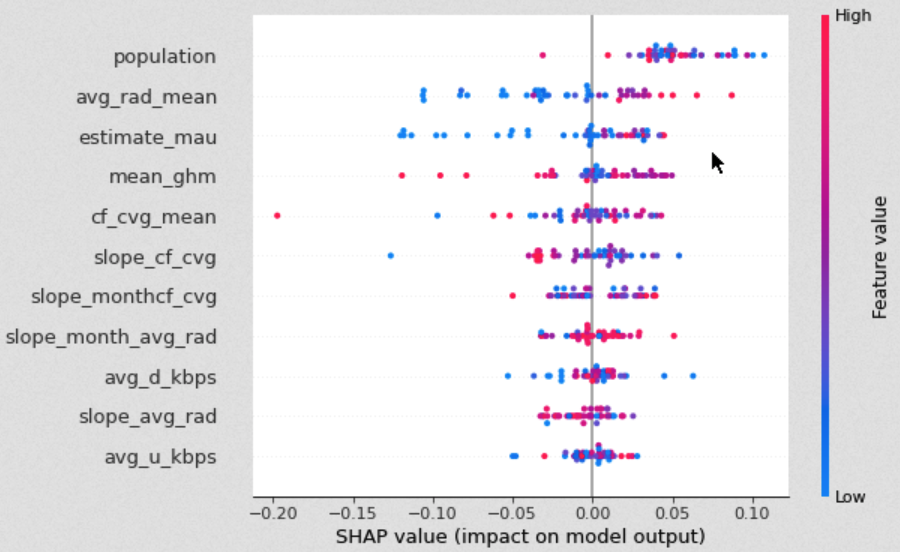
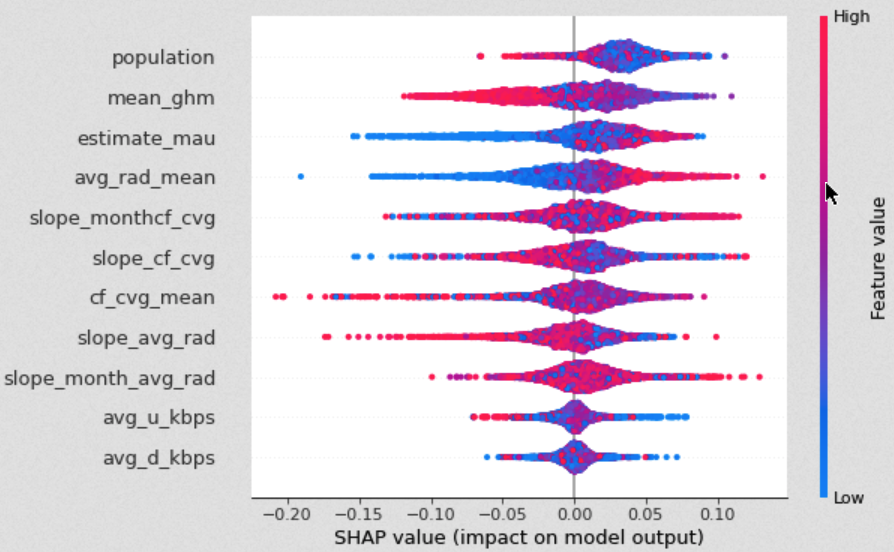
updates

diff --git a/itu-project/docs/model.md b/itu-project/docs/model.md
@@ -134,18 +134,19 @@ Subsequently, we further investigated the effects of features on the prediction 
 While low impact features like average download and upload speed look normally distributed around zero, important features like Facebook can be interpreted more reasonable. For this model, low monthly Facebook users resulted in a (much) lower prediction of online population. Similarly, low values of average radiance yielded lower predictions. 
 
 In order to examine impact of the features more detailled, we looked at shapely values where the model performed particularly well and particularly poor (i.e. very low and high errors). 
-For errors larger than 0.4 most of the shapley valzes are scattered around 0, however from this graphic we can not make out a clear pattern why these predictions turned out to be particularly bad. 
+For errors larger than 0.4 most of the shapley values are scattered around 0, however from this graphic we can not make out a clear pattern why these predictions turned out to be particularly bad. 
+Similarly, an inspection of shapely values where the errors were lower than 0.05 does not yield an obvious difference to the overall shapely values that would explain the good performance for these cases.
 
 ![XGBoost_Shap](Images/xgboost_shapely_lowerror.png)
 ![XGBoost_Shap](Images/xgboost_shapely_higherror.png)
 
 
-We evaluated how the feature importance changes across the range of feature values by creating line and scatter plots indicating the value und respective importance. 
+We evaluated how the feature importance changes across the range of feature values by creating line and scatter plots indicating the value und respective importance.  This example depicts the feature importances for the range of average radiance values. We can observe a clear pattern, that the more the radiance deviates from the mean positively or negatively the stronger the respective effect on the prediction appears to be. Very low values have strong negative effects, whereas large values typically have a strong positive effect on the prediction. 
 
 ![XGBoost_Shap](Images/xgboost_shapely_scatterline.png)
 
 
-Ultimately, we spot-checked single school area predictions with observing how the collection of features influenced this particular prediction. 
+Ultimately, we spot-checked single school area predictions with observing how the collection of features influenced this particular prediction. This again can be done for all school areas but also subsetted for the sets of observations with very high or low errors. In the example below, we are examining a high error school area prediction. When inspecting the particular case, it can be observed that Facebook data, did not play a significant role in impacting the prediction. This might have influenced the inaccurate prediction. 
 
 ![XGBoost_Shap](Images/xgboost_shapely_indiv.png)
 
